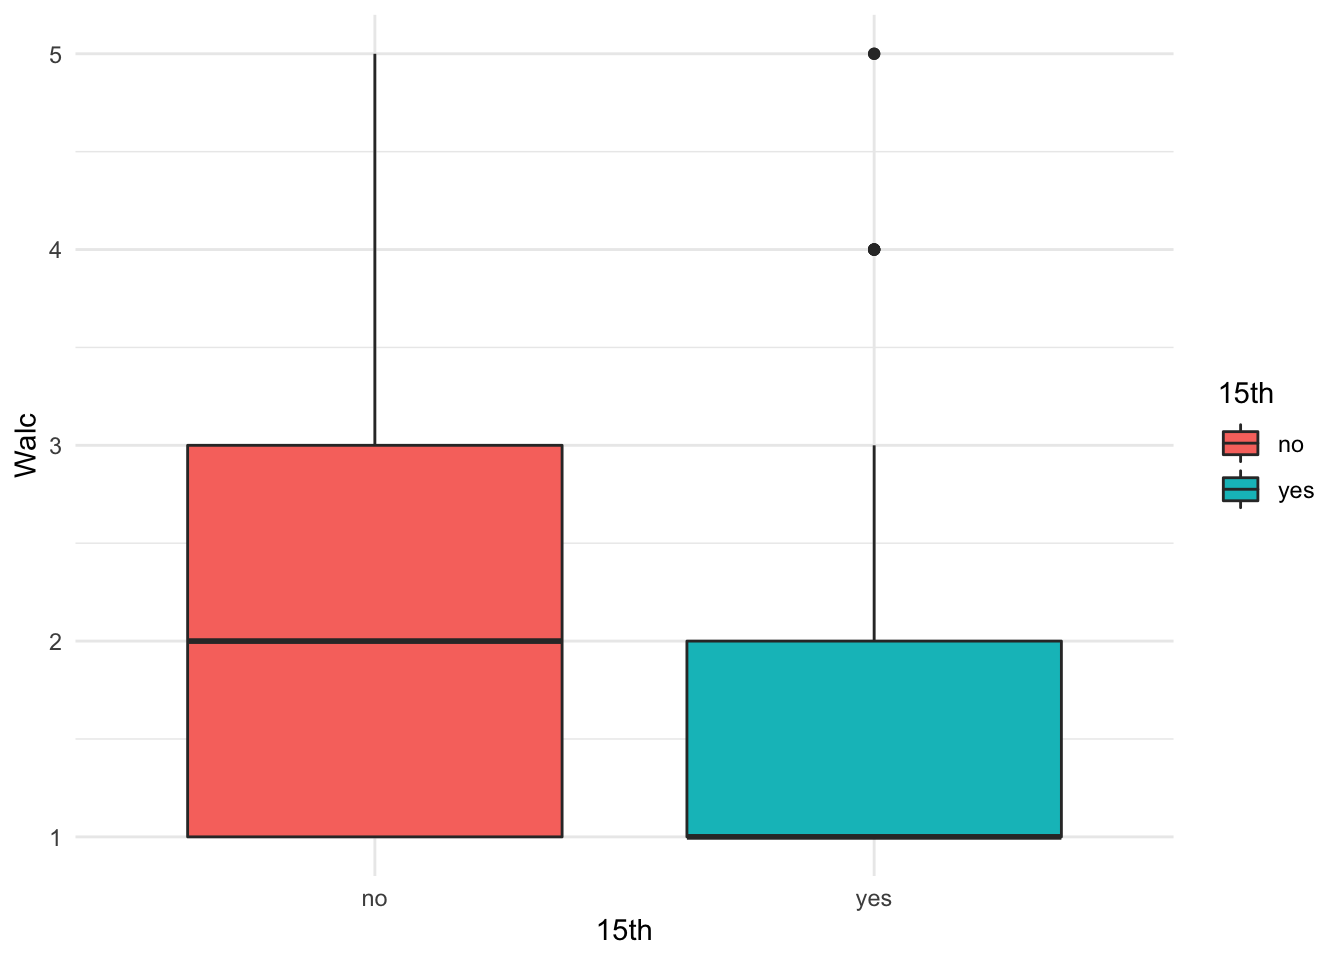
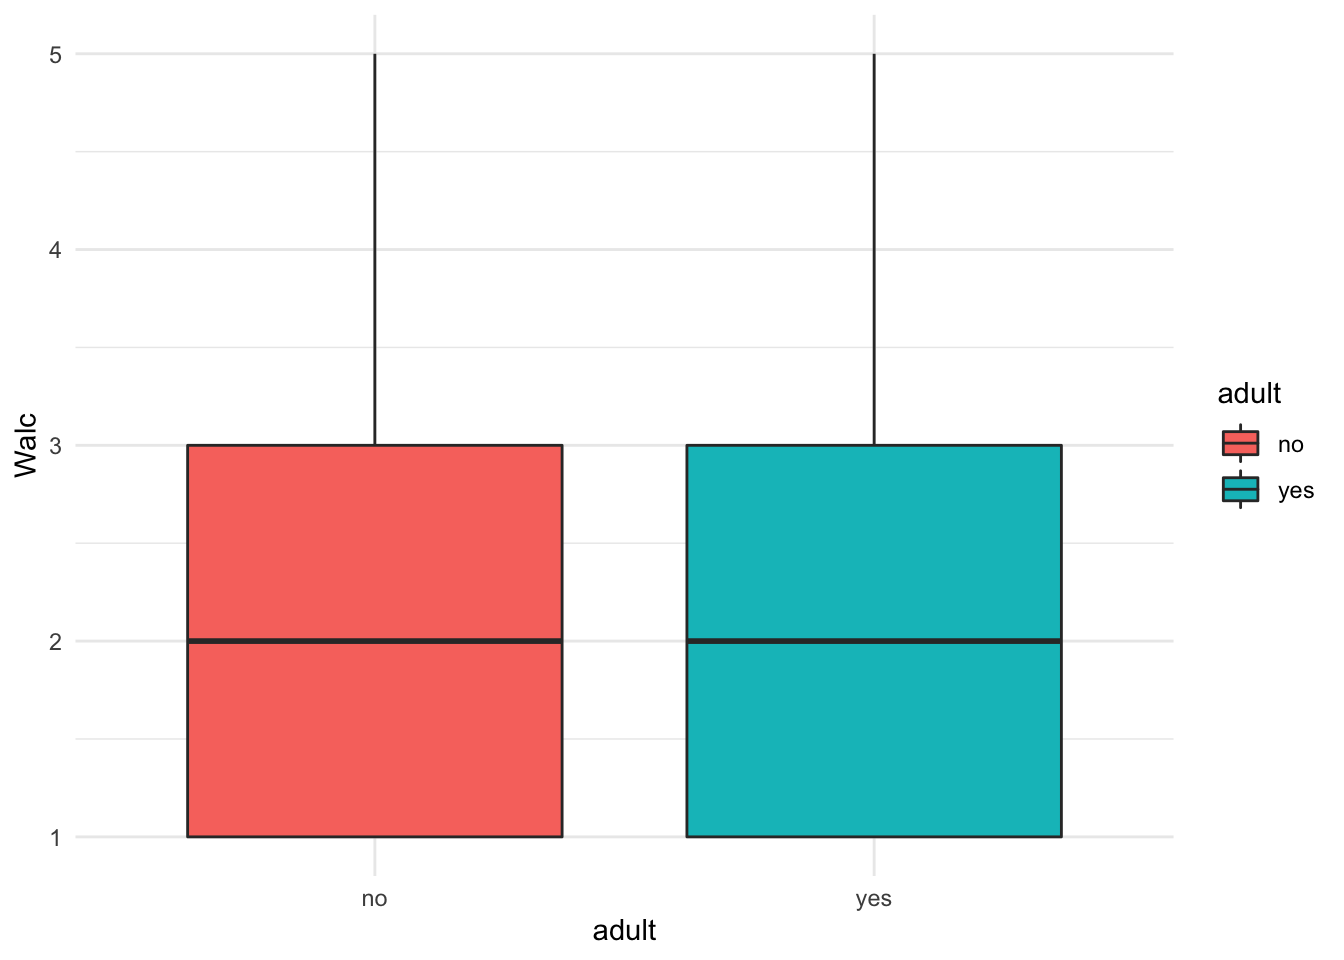
visualization

diff --git a/docs/визуализация-результатов.html b/docs/визуализация-результатов.html
@@ -188,26 +188,35 @@ code span.wa { color: #60a0b0; font-weight: bold; font-style: italic; } /* Warni
 <p><img src="https://encrypted-tbn0.gstatic.com/images?q=tbn:ANd9GcRdCGwEb-Redy2Agi8mfYhxZRBgdywIFNzVha_g_S2cFY-LzXLqY9se-wQfTvlbhP-yWvY&amp;usqp=CAU" style="width:2.0%" /> <strong>Результаты визуализированы, так, чтобы их было легче правильно воспринять</strong></p>
 <p>Несмотря на то, что визуализация результатов стоит последний пунктом, это очень важный этап. Кроме того, он может использоваться и до получения результатов, чтобы прикинуть, какими получатся результаты еще до проведения статистического теста.</p>
 <p>Визуализации для гипотезы 1</p>
-<div class="sourceCode" id="cb69"><pre class="sourceCode r"><code class="sourceCode r"><span id="cb69-1"><a href="визуализация-результатов.html#cb69-1"></a>students <span class="op">%&gt;%</span><span class="st"> </span></span>
-<span id="cb69-2"><a href="визуализация-результатов.html#cb69-2"></a><span class="st">  </span><span class="kw">ggplot</span>(<span class="kw">aes</span>(<span class="dt">x=</span>adult, <span class="dt">y =</span> Walc)) <span class="op">+</span></span>
-<span id="cb69-3"><a href="визуализация-результатов.html#cb69-3"></a><span class="st">  </span><span class="kw">geom_boxplot</span>(<span class="kw">aes</span>(<span class="dt">fill =</span> adult)) <span class="op">+</span></span>
-<span id="cb69-4"><a href="визуализация-результатов.html#cb69-4"></a><span class="st">  </span><span class="kw">theme_minimal</span>()</span></code></pre></div>
-<p><img src="images/unnamed-chunk-37-1.png" width="672" /></p>
-<div class="sourceCode" id="cb70"><pre class="sourceCode r"><code class="sourceCode r"><span id="cb70-1"><a href="визуализация-результатов.html#cb70-1"></a>students <span class="op">%&gt;%</span><span class="st"> </span></span>
-<span id="cb70-2"><a href="визуализация-результатов.html#cb70-2"></a><span class="st">  </span><span class="kw">ggplot</span>(<span class="kw">aes</span>(<span class="dt">x=</span><span class="st">`</span><span class="dt">15th</span><span class="st">`</span>, <span class="dt">y =</span> Walc)) <span class="op">+</span></span>
-<span id="cb70-3"><a href="визуализация-результатов.html#cb70-3"></a><span class="st">  </span><span class="kw">geom_boxplot</span>(<span class="kw">aes</span>(<span class="dt">fill =</span> <span class="st">`</span><span class="dt">15th</span><span class="st">`</span>)) <span class="op">+</span></span>
-<span id="cb70-4"><a href="визуализация-результатов.html#cb70-4"></a><span class="st">  </span><span class="kw">theme_minimal</span>()</span></code></pre></div>
-<p><img src="images/unnamed-chunk-38-1.png" width="672" /></p>
 <div class="sourceCode" id="cb71"><pre class="sourceCode r"><code class="sourceCode r"><span id="cb71-1"><a href="визуализация-результатов.html#cb71-1"></a>students <span class="op">%&gt;%</span><span class="st"> </span></span>
-<span id="cb71-2"><a href="визуализация-результатов.html#cb71-2"></a><span class="st">  </span><span class="kw">ggplot</span>(<span class="kw">aes</span>(<span class="dt">x=</span><span class="st">`</span><span class="dt">15th</span><span class="st">`</span>, <span class="dt">y =</span> Walc)) <span class="op">+</span></span>
-<span id="cb71-3"><a href="визуализация-результатов.html#cb71-3"></a><span class="st">  </span><span class="kw">geom_boxplot</span>(<span class="kw">aes</span>(<span class="dt">fill =</span> <span class="st">`</span><span class="dt">15th</span><span class="st">`</span>)) <span class="op">+</span></span>
+<span id="cb71-2"><a href="визуализация-результатов.html#cb71-2"></a><span class="st">  </span><span class="kw">ggplot</span>(<span class="kw">aes</span>(<span class="dt">x=</span>adult, <span class="dt">y =</span> Walc)) <span class="op">+</span></span>
+<span id="cb71-3"><a href="визуализация-результатов.html#cb71-3"></a><span class="st">  </span><span class="kw">geom_boxplot</span>(<span class="kw">aes</span>(<span class="dt">fill =</span> adult)) <span class="op">+</span></span>
 <span id="cb71-4"><a href="визуализация-результатов.html#cb71-4"></a><span class="st">  </span><span class="kw">theme_minimal</span>()</span></code></pre></div>
-<p><img src="images/unnamed-chunk-39-1.png" width="672" /></p>
+<p><img src="images/unnamed-chunk-38-1.png" width="672" /></p>
+<div class="sourceCode" id="cb72"><pre class="sourceCode r"><code class="sourceCode r"><span id="cb72-1"><a href="визуализация-результатов.html#cb72-1"></a>students <span class="op">%&gt;%</span><span class="st"> </span></span>
+<span id="cb72-2"><a href="визуализация-результатов.html#cb72-2"></a><span class="st">  </span><span class="kw">ggplot</span>(<span class="kw">aes</span>(<span class="dt">x=</span><span class="st">`</span><span class="dt">15th</span><span class="st">`</span>, <span class="dt">y =</span> Walc)) <span class="op">+</span></span>
+<span id="cb72-3"><a href="визуализация-результатов.html#cb72-3"></a><span class="st">  </span><span class="kw">geom_boxplot</span>(<span class="kw">aes</span>(<span class="dt">fill =</span> <span class="st">`</span><span class="dt">15th</span><span class="st">`</span>)) <span class="op">+</span></span>
+<span id="cb72-4"><a href="визуализация-результатов.html#cb72-4"></a><span class="st">  </span><span class="kw">theme_minimal</span>()</span></code></pre></div>
+<p><img src="images/unnamed-chunk-39-1.png" width="672" />
+Визуализации для гипотезы 2</p>
+<div class="sourceCode" id="cb73"><pre class="sourceCode r"><code class="sourceCode r"><span id="cb73-1"><a href="визуализация-результатов.html#cb73-1"></a>students <span class="op">%&gt;%</span><span class="st"> </span></span>
+<span id="cb73-2"><a href="визуализация-результатов.html#cb73-2"></a><span class="st">  </span><span class="kw">ggplot</span>(<span class="kw">aes</span>(<span class="dt">x=</span>famrel, <span class="dt">y =</span> Walc)) <span class="op">+</span></span>
+<span id="cb73-3"><a href="визуализация-результатов.html#cb73-3"></a><span class="st">  </span><span class="kw">geom_point</span>(<span class="kw">aes</span>(<span class="dt">colour =</span> famrel)) <span class="op">+</span></span>
+<span id="cb73-4"><a href="визуализация-результатов.html#cb73-4"></a><span class="st">  </span><span class="kw">theme_minimal</span>()</span></code></pre></div>
+<p><img src="images/unnamed-chunk-40-1.png" width="672" />
+Визуализации для гипотезы 3</p>
+<div class="sourceCode" id="cb74"><pre class="sourceCode r"><code class="sourceCode r"><span id="cb74-1"><a href="визуализация-результатов.html#cb74-1"></a>students <span class="op">%&gt;%</span><span class="st"> </span></span>
+<span id="cb74-2"><a href="визуализация-результатов.html#cb74-2"></a><span class="st">  </span><span class="kw">ggplot</span>(<span class="kw">aes</span>(<span class="dt">x=</span>absences_mat, <span class="dt">y =</span> G_mat)) <span class="op">+</span></span>
+<span id="cb74-3"><a href="визуализация-результатов.html#cb74-3"></a><span class="st">  </span><span class="kw">geom_point</span>(<span class="kw">aes</span>(<span class="dt">colour =</span> absences_mat)) <span class="op">+</span></span>
+<span id="cb74-4"><a href="визуализация-результатов.html#cb74-4"></a><span class="st">  </span><span class="kw">geom_smooth</span>(<span class="dt">method=</span><span class="st">&quot;lm&quot;</span>) <span class="op">+</span></span>
+<span id="cb74-5"><a href="визуализация-результатов.html#cb74-5"></a><span class="st">  </span><span class="kw">theme_minimal</span>()</span></code></pre></div>
+<pre><code>## `geom_smooth()` using formula &#39;y ~ x&#39;</code></pre>
+<p><img src="images/unnamed-chunk-41-1.png" width="672" /></p>
 <p>Визуализируем матрицу корреляций в коррелограмму</p>
-<div class="sourceCode" id="cb72"><pre class="sourceCode r"><code class="sourceCode r"><span id="cb72-1"><a href="визуализация-результатов.html#cb72-1"></a><span class="kw">library</span>(corrplot)</span>
-<span id="cb72-2"><a href="визуализация-результатов.html#cb72-2"></a><span class="kw">corrplot</span>(<span class="kw">cor</span>(students_numeric_matrix), <span class="dt">method=</span><span class="st">&quot;circle&quot;</span>)</span></code></pre></div>
-<p><img src="images/unnamed-chunk-40-1.png" width="672" /></p>
-<div class="sourceCode" id="cb73"><pre class="sourceCode r"><code class="sourceCode r"><span id="cb73-1"><a href="визуализация-результатов.html#cb73-1"></a><span class="co"># corrplot(rcorr(students_numeric_matrix)$r, p.mat = rcorr(students_numeric_matrix)$P, sig.level = 0.05, insig = &quot;blank&quot;)</span></span></code></pre></div>
+<div class="sourceCode" id="cb76"><pre class="sourceCode r"><code class="sourceCode r"><span id="cb76-1"><a href="визуализация-результатов.html#cb76-1"></a><span class="kw">library</span>(corrplot)</span>
+<span id="cb76-2"><a href="визуализация-результатов.html#cb76-2"></a><span class="kw">corrplot</span>(<span class="kw">cor</span>(students_numeric_matrix), <span class="dt">method=</span><span class="st">&quot;circle&quot;</span>)</span></code></pre></div>
+<p><img src="images/unnamed-chunk-42-1.png" width="672" /></p>
+<div class="sourceCode" id="cb77"><pre class="sourceCode r"><code class="sourceCode r"><span id="cb77-1"><a href="визуализация-результатов.html#cb77-1"></a><span class="co"># corrplot(rcorr(students_numeric_matrix)$r, p.mat = rcorr(students_numeric_matrix)$P, sig.level = 0.05, insig = &quot;blank&quot;)</span></span></code></pre></div>
 </div>
             </section>
 

diff --git a/docs/расчет-статистического-метода.html b/docs/расчет-статистического-метода.html
@@ -1753,6 +1753,26 @@ yes
 ## sample estimates:
 ##         cor 
 ## -0.05822595</code></pre>
+<div class="sourceCode" id="cb69"><pre class="sourceCode r"><code class="sourceCode r"><span id="cb69-1"><a href="расчет-статистического-метода.html#cb69-1"></a>model_Gmat &lt;-<span class="st"> </span><span class="kw">lm</span>(students<span class="op">$</span>G_mat <span class="op">~</span><span class="st"> </span>students<span class="op">$</span>absences_mat)</span>
+<span id="cb69-2"><a href="расчет-статистического-метода.html#cb69-2"></a><span class="kw">summary</span>(model_Gmat)</span></code></pre></div>
+<pre><code>## 
+## Call:
+## lm(formula = students$G_mat ~ students$absences_mat)
+## 
+## Residuals:
+##     Min      1Q  Median      3Q     Max 
+## -9.3130 -2.1013  0.0045  2.4727  8.1262 
+## 
+## Coefficients:
+##                       Estimate Std. Error t value Pr(&gt;|t|)    
+## (Intercept)           11.31298    0.24196   46.76   &lt;2e-16 ***
+## students$absences_mat -0.02645    0.02544   -1.04    0.299    
+## ---
+## Signif. codes:  0 &#39;***&#39; 0.001 &#39;**&#39; 0.01 &#39;*&#39; 0.05 &#39;.&#39; 0.1 &#39; &#39; 1
+## 
+## Residual standard error: 3.559 on 318 degrees of freedom
+## Multiple R-squared:  0.00339,    Adjusted R-squared:  0.0002563 
+## F-statistic: 1.082 on 1 and 318 DF,  p-value: 0.2991</code></pre>
 </div>
             </section>
 
